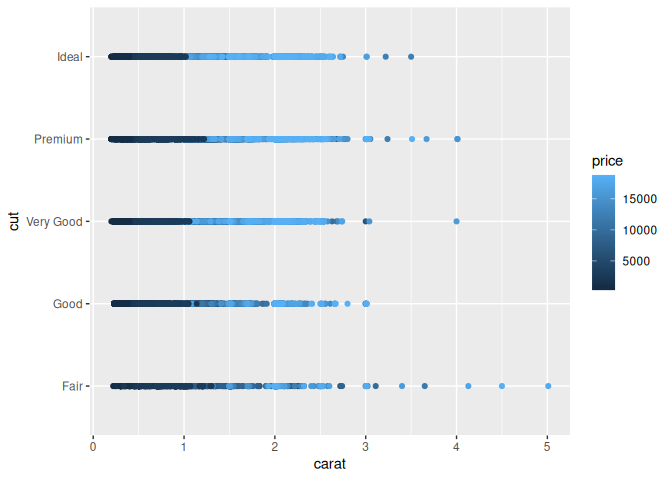
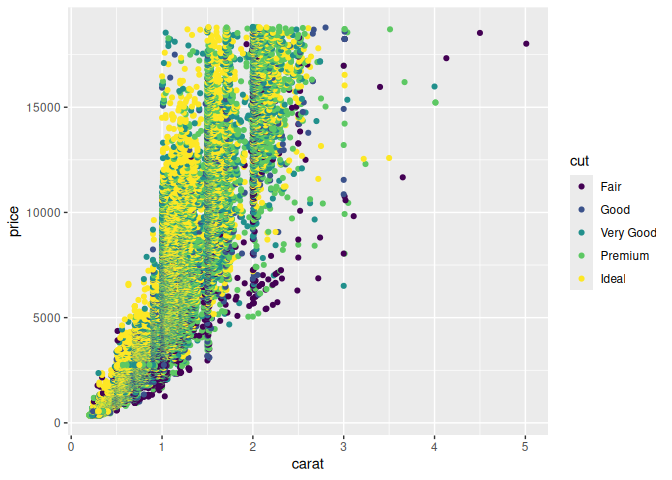
Corrected Diamonds assignment

diff --git a/data-science-curriculum-build/data-science-curriculum-build/challenges/c00-diamonds-assignment.md b/data-science-curriculum-build/data-science-curriculum-build/challenges/c00-diamonds-assignment.md
@@ -98,7 +98,8 @@ document your observations.
 ``` r
 ## TASK: Plot `price` vs `carat` below
 ## Your code here!
-ggplot(data = diamonds, mapping = aes(y = price, x = carat), ylab="price", xlab="carat", main="Price vs. Carat") +
+diamonds %>%
+  ggplot(mapping = aes(y = price, x = carat), ylab="price", xlab="carat", main="Price vs. Carat") +
   geom_point (col = "blue") +
   geom_smooth(col = "green")
 ```
@@ -127,8 +128,9 @@ ggplot(data = diamonds, mapping = aes(y = price, x = carat), ylab="price", xlab=
 ``` r
 ## TASK: Plot `price`, `carat`, and `cut` below
 ## Your code here!
-ggplot(diamonds) +
-  geom_point(mapping = aes(x = carat, y = cut, color = price))
+diamonds %>%
+  ggplot(mapping = aes(x = carat, y = price, color = cut)) +
+  geom_point()
 ```
 
 ![](c00-diamonds-assignment_files/figure-gfm/q2-task-1.png)<!-- -->
